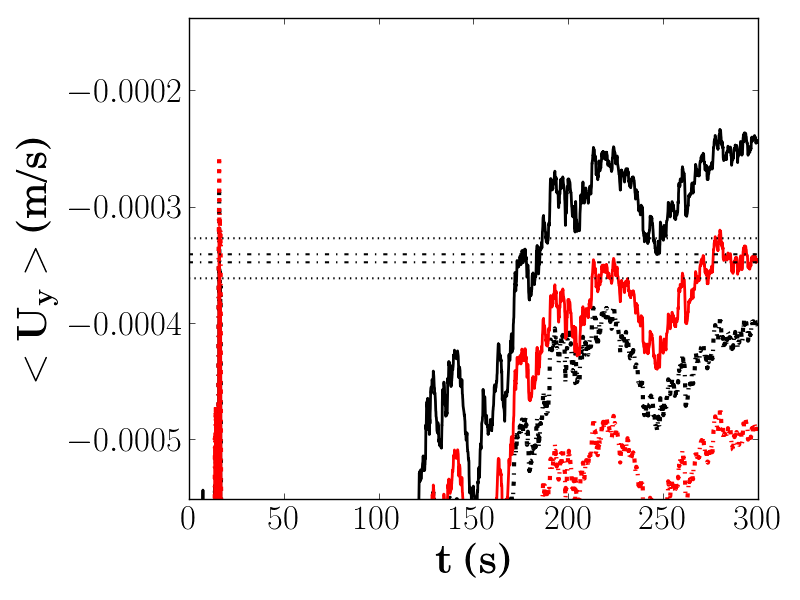
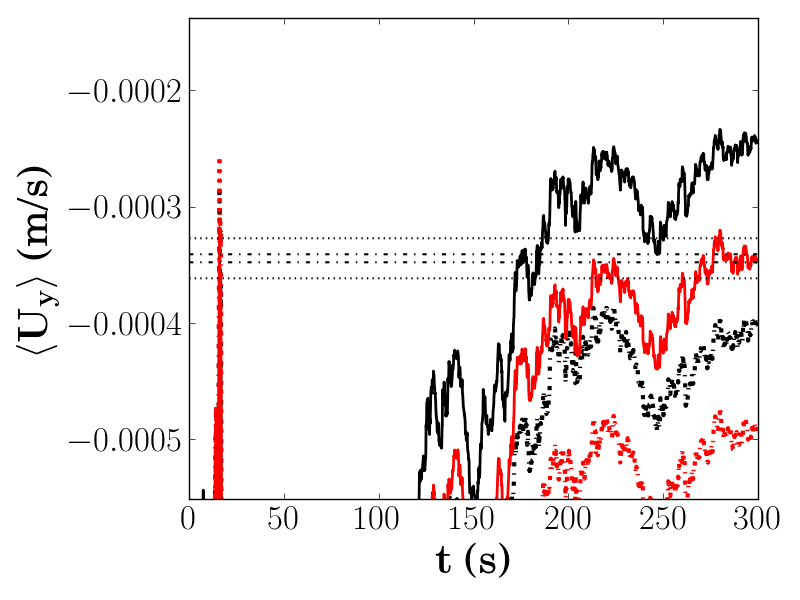
Updated axis titles

diff --git a/timeDependence/Code/processingScript.py b/timeDependence/Code/processingScript.py
@@ -113,59 +113,59 @@ dataFrames_filtered = [
 axis = [-0.6,0.6]
 for i in [0,1,2,3,4,5]:
 	print(fileNames[i])
-	data_raw = txtToDataFrame(fileNames[i],writePaths_dataFrames[i])
+#	data_raw = txtToDataFrame(fileNames[i],writePaths_dataFrames[i])
 #	data_unwei = rawToProcessed_unweighted(data_raw,writePaths_dataFrames[i],'_data_unweighted.pkl')
 #	data_wei = rawToProcessed_weighted(data_unwei,writePaths_dataFrames[i],'_data_weighted.pkl')
-	data_fil = phaseSpaceFilter(data_raw,'mean',writePaths_figures[i],writePaths_dataFrames[i])
+#	data_fil = phaseSpaceFilter(data_raw,'mean',writePaths_figures[i],writePaths_dataFrames[i])
 #	data_fil_unwei = rawToProcessed_unweighted(data_fil,writePaths_dataFrames[i],'_data_filtered_unweighted.pkl')
 #	data_fil_wei = rawToProcessed_weighted(data_fil_unwei,writePaths_dataFrames[i],'_data_filtered_weighted.pkl')
-#	data1 = pd.read_pickle(dataFrames_weighted[i])
-#	data2 = pd.read_pickle(dataFrames_filtered[i])
+	data1 = pd.read_pickle(dataFrames_weighted[i])
+	data2 = pd.read_pickle(dataFrames_filtered[i])
 #
 ##	Plotting functions:
 #
 ##	Plot mean Ux
-#	plotter(writeString=writePaths_figures[i],	data=data1,	time1=data1.timeStamp,	
-#	time2=data1.timeStamp,	time3=data2.timeStamp,	time4=data2.timeStamp,
-#	U1=data1.UxMean,	U2=data1.UxMean_w,	U3=data2.UxMean,	U4=data2.UxMean_w,
-#	convMethod='MEAN',	axis=axis,	xlabel=r'$\mathbf{t}$ (s)',	ylabel=r'$\mathbf{<U_x>}$(m/s)',
-#	U1label='Raw',	U2label='Raw, Weighted',	U3label='Filtered', U4label='Filtered, Weighted',
-#	writeName='MeanUx.png',legend=None)
+	plotter(writeString=writePaths_figures[i],	data=data1,	time1=data1.timeStamp,	
+	time2=data1.timeStamp,	time3=data2.timeStamp,	time4=data2.timeStamp,
+	U1=data1.UxMean,	U2=data1.UxMean_w,	U3=data2.UxMean,	U4=data2.UxMean_w,
+	convMethod='MEAN',	axis=axis,	xlabel=r'$\mathbf{t}$ (s)',	ylabel=r'$\mathbf{\left<U_x\right>}$ (m/s)',
+	U1label='Raw',	U2label='Raw, Weighted',	U3label='Filtered', U4label='Filtered, Weighted',
+	writeName='MeanUx.png',legend=None)
 #
 ##	Plot mean Uy
-#	plotter(writeString=writePaths_figures[i],	data=data1,	time1=data1.timeStamp,	
-#	time2=data1.timeStamp,	time3=data2.timeStamp,	time4=data2.timeStamp,
-#	U1=data1.UyMean,	U2=data1.UyMean_w,	U3=data2.UyMean,	U4=data2.UyMean_w,
-#	convMethod='MEAN',	axis=axis,	xlabel=r'$\mathbf{t}$ (s)',	ylabel=r'$\mathbf{<U_y>}$ (m/s)',
-#	U1label='Raw',	U2label='Raw, Weighted',	U3label='Filtered', U4label='Filtered, Weighted',
-#	writeName='MeanUy.png',legend=None)
+	plotter(writeString=writePaths_figures[i],	data=data1,	time1=data1.timeStamp,	
+	time2=data1.timeStamp,	time3=data2.timeStamp,	time4=data2.timeStamp,
+	U1=data1.UyMean,	U2=data1.UyMean_w,	U3=data2.UyMean,	U4=data2.UyMean_w,
+	convMethod='MEAN',	axis=axis,	xlabel=r'$\mathbf{t}$ (s)',	ylabel=r'$\mathbf{\left<U_y\right>}$ (m/s)',
+	U1label='Raw',	U2label='Raw, Weighted',	U3label='Filtered', U4label='Filtered, Weighted',
+	writeName='MeanUy.png',legend=None)
 #
 ##	Plot RMS Ux
-#	plotter(writeString=writePaths_figures[i],	data=data1,	time1=data1.timeStamp,	
-#	time2=data1.timeStamp,	time3=data2.timeStamp,	time4=data2.timeStamp,
-#	U1=np.sqrt(data1.uxRMS),	U2=np.sqrt(data1.uxRMS_w),	U3=np.sqrt(data2.uxRMS),	
-#	U4=np.sqrt(data2.uxRMS_w),
-#	convMethod='MEAN',	axis=axis,	xlabel=r'$\mathbf{t}$ (s)',	ylabel=r'RMS($\mathbf{u_x}$) (m/s)',
-#	U1label='Raw',	U2label='Raw, Weighted',	U3label='Filtered', U4label='Filtered, Weighted',
-#	writeName='RMSux.png',legend=None)
+	plotter(writeString=writePaths_figures[i],	data=data1,	time1=data1.timeStamp,	
+	time2=data1.timeStamp,	time3=data2.timeStamp,	time4=data2.timeStamp,
+	U1=np.sqrt(data1.uxRMS),	U2=np.sqrt(data1.uxRMS_w),	U3=np.sqrt(data2.uxRMS),	
+	U4=np.sqrt(data2.uxRMS_w),
+	convMethod='MEAN',	axis=axis,	xlabel=r'$\mathbf{t}$ (s)',	ylabel=r'RMS($\mathbf{u_x}$) (m/s)',
+	U1label='Raw',	U2label='Raw, Weighted',	U3label='Filtered', U4label='Filtered, Weighted',
+	writeName='RMSux.png',legend=None)
 #
 ##	Plot RMS Uy
-#	plotter(writeString=writePaths_figures[i],	data=data1,	time1=data1.timeStamp,	
-#	time2=data1.timeStamp,	time3=data2.timeStamp,	time4=data2.timeStamp,
-#	U1=np.sqrt(data1.uyRMS),	U2=np.sqrt(data1.uyRMS_w),	U3=np.sqrt(data2.uyRMS),	
-#	U4=np.sqrt(data2.uyRMS_w),
-#	convMethod='MEAN',	axis=axis,	xlabel=r'$\mathbf{t}$ (s)',	ylabel=r'RMS($\mathbf{u_y}$) (m/s)',
-#	U1label='Raw',	U2label='Raw, Weighted',	U3label='Filtered', U4label='Filtered, Weighted',
-#	writeName='RMSuy.png',legend=None)
+	plotter(writeString=writePaths_figures[i],	data=data1,	time1=data1.timeStamp,	
+	time2=data1.timeStamp,	time3=data2.timeStamp,	time4=data2.timeStamp,
+	U1=np.sqrt(data1.uyRMS),	U2=np.sqrt(data1.uyRMS_w),	U3=np.sqrt(data2.uyRMS),	
+	U4=np.sqrt(data2.uyRMS_w),
+	convMethod='MEAN',	axis=axis,	xlabel=r'$\mathbf{t}$ (s)',	ylabel=r'RMS($\mathbf{u_y}$) (m/s)',
+	U1label='Raw',	U2label='Raw, Weighted',	U3label='Filtered', U4label='Filtered, Weighted',
+	writeName='RMSuy.png',legend=None)
 #
 ##	Plot Reynolds Stresses uv
-#	plotter(writeString=writePaths_figures[i],	data=data1,	time1=data1.timeStamp,	
-#	time2=data1.timeStamp,	time3=data2.timeStamp,	time4=data2.timeStamp,
-#	U1=data1.uv,	U2=data1.uv_w,	U3=data2.uv,	U4=data2.uv_w,
-#	convMethod='MEAN',	axis=axis,	xlabel=r'$\mathbf{t}$ (s)',
-#	ylabel=r'$\mathbf{u_x u_y}$ $\mathbf{(m^2/s^2)}$',
-#	U1label='Raw',	U2label='Raw, Weighted',	U3label='Filtered', U4label='Filtered, Weighted',
-#	writeName='uv.png',legend=None)
+	plotter(writeString=writePaths_figures[i],	data=data1,	time1=data1.timeStamp,	
+	time2=data1.timeStamp,	time3=data2.timeStamp,	time4=data2.timeStamp,
+	U1=data1.uv,	U2=data1.uv_w,	U3=data2.uv,	U4=data2.uv_w,
+	convMethod='MEAN',	axis=axis,	xlabel=r'$\mathbf{t}$ (s)',
+	ylabel=r'$\mathbf{u_x u_y}$ $\mathbf{(m^2/s^2)}$',
+	U1label='Raw',	U2label='Raw, Weighted',	U3label='Filtered', U4label='Filtered, Weighted',
+	writeName='uv.png',legend=None)
 
 
 
